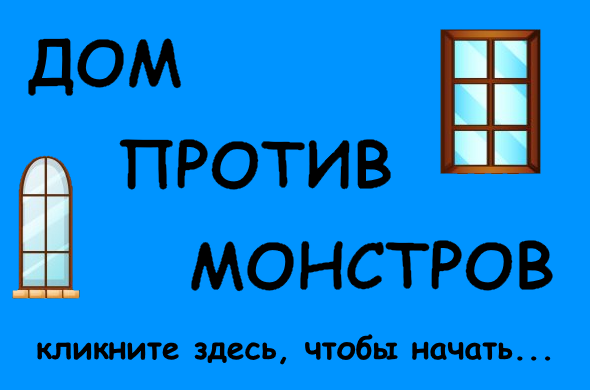
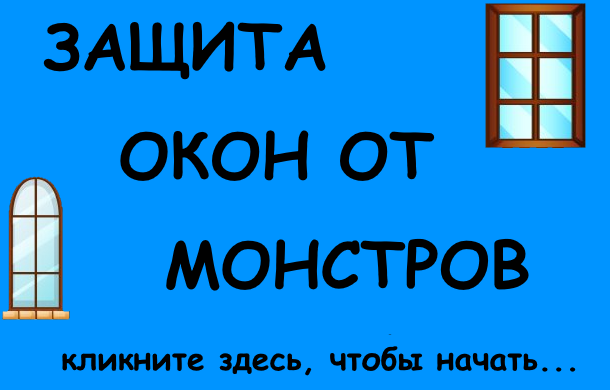
- немного красоты

diff --git a/main.py b/main.py
@@ -159,7 +159,7 @@ if __name__ == '__main__':
 
     s_glass = pygame.mixer.Sound('sounds/glass1.ogg')
 
-    pygame.display.set_caption('Дом против монстров')
+    pygame.display.set_caption('Защита окон от монстров')
 
 
 
